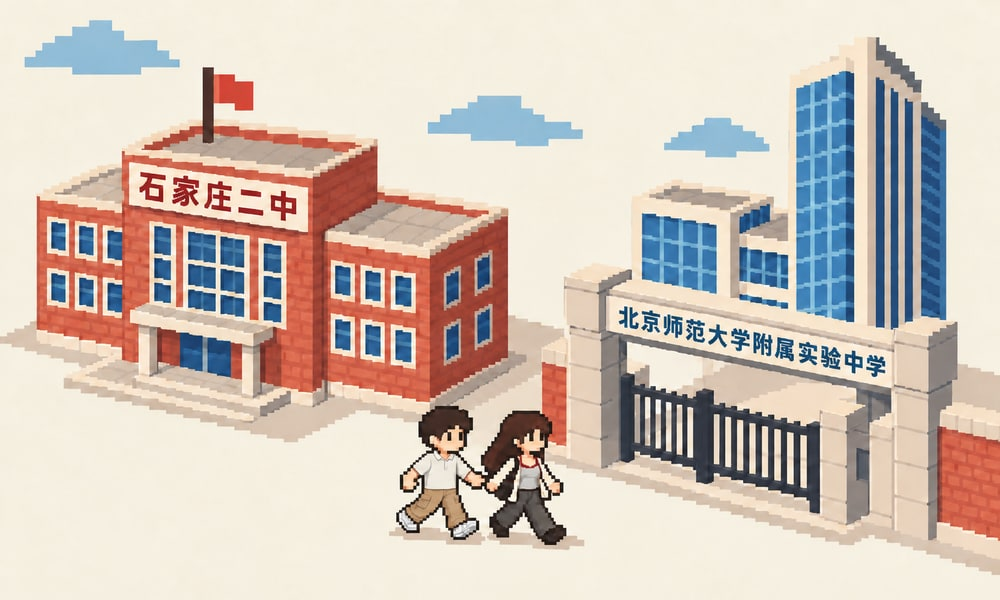
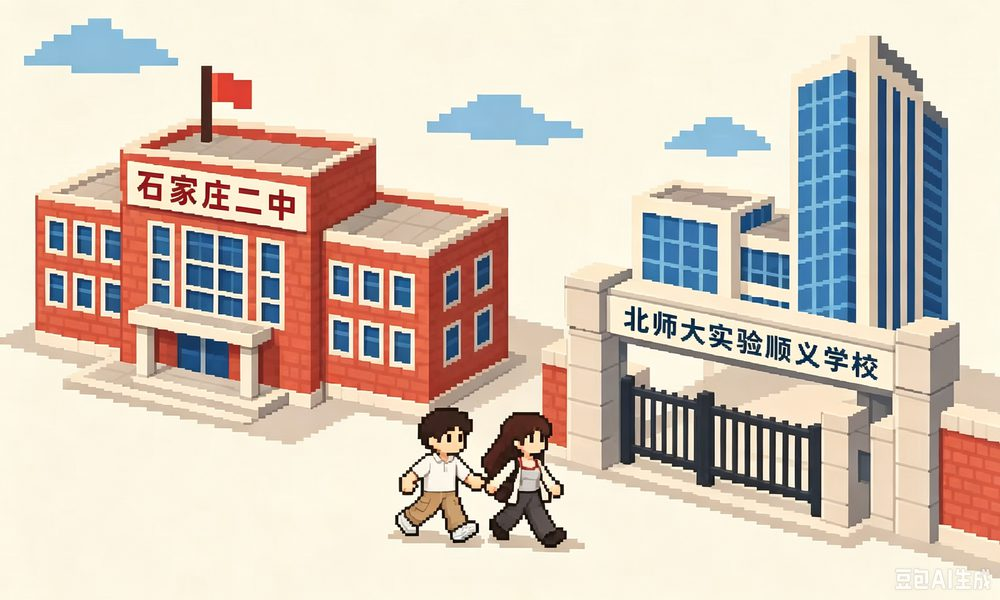
fix: update story navigation artwork

diff --git a/src/packages/story/data.ts b/src/packages/story/data.ts
@@ -1,6 +1,6 @@
 export const STORY_STEPS = [
   { id: 'together', date: '2016.09', title: '相恋', body: '我们从高中一起步入大学，隔着西安和保定，用电话和信息共同走过四年。', photo: '/packages/story/assets/story-01-together.jpg', photoAlt: '相恋纪念照片' },
-  { id: 'nanjing', date: '2017.08', title: '同游', body: '许多地方都刷新着我们共同的记忆，与夜色下的大雁塔合影，在金沙滩发呆，骑单车沿西湖去吃鸡汤泡饭，在云岗石窟下和落日争阳光，和朋友在北疆的山路上环绕...', photo: '/packages/story/assets/story-02-travel.jpg', photoAlt: '同游纪念照片' },
+  { id: 'nanjing', date: '2017.08', title: '同游', body: '许多地方都刷新着我们共同的记忆，与夜色下的大雁塔合影，在金沙滩发呆，骑单车沿西湖去吃鸡汤泡饭，在云冈石窟下和落日争阳光，和朋友在北疆的山路上环绕...', photo: '/packages/story/assets/story-02-travel.jpg', photoAlt: '同游纪念照片' },
   { id: 'world-cup', date: '2022.12', title: '并肩', body: '我们一起熬过核酸与隔离，在20年静默又耀眼的夏日中完成了本科学业；在琐碎的学业日常中一点点建立信任，共享认知。我们了解彼此的喜好，一起看完一场完整的世界杯。', photo: '/packages/story/assets/story-03-partnership.jpg', photoAlt: '并肩纪念照片' },
   { id: 'growth', date: '2023.07', title: '成长', body: '陕科大记录了我们学业重叠的一年时光。在各自喜爱的学术方向摸索前进。去往教室的路上一人总爱扭头看一眼另一人实验室的方向。学生身份的我们仿佛可以肆意挥霍着时间，享受着冗长的午后阳光。', photo: '/packages/story/assets/story-04-growth.jpg', photoAlt: '成长纪念照片' },
   { id: 'beijing', date: '2025.06', title: '奔赴', body: '为了在新城市落脚，一人奔赴一个个学校试讲，另一人也要为无数场面试刷题。在互相的鼓励和治愈中我们努力蜕掉青嫩的鳞片，在新城市，开启新地图。', photo: '/packages/story/assets/story-05-move.jpg', photoAlt: '奔赴纪念照片' },
